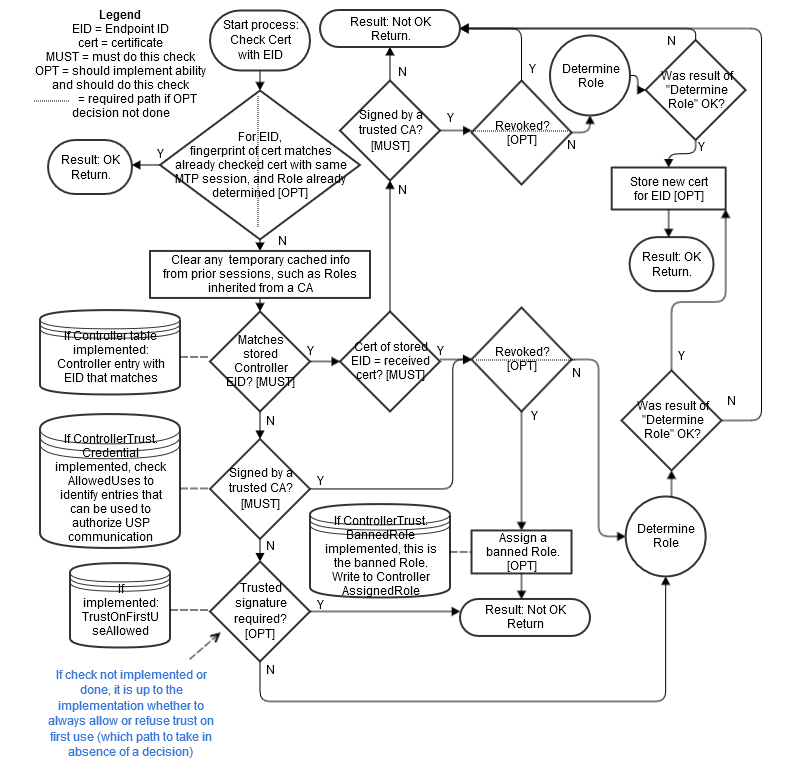
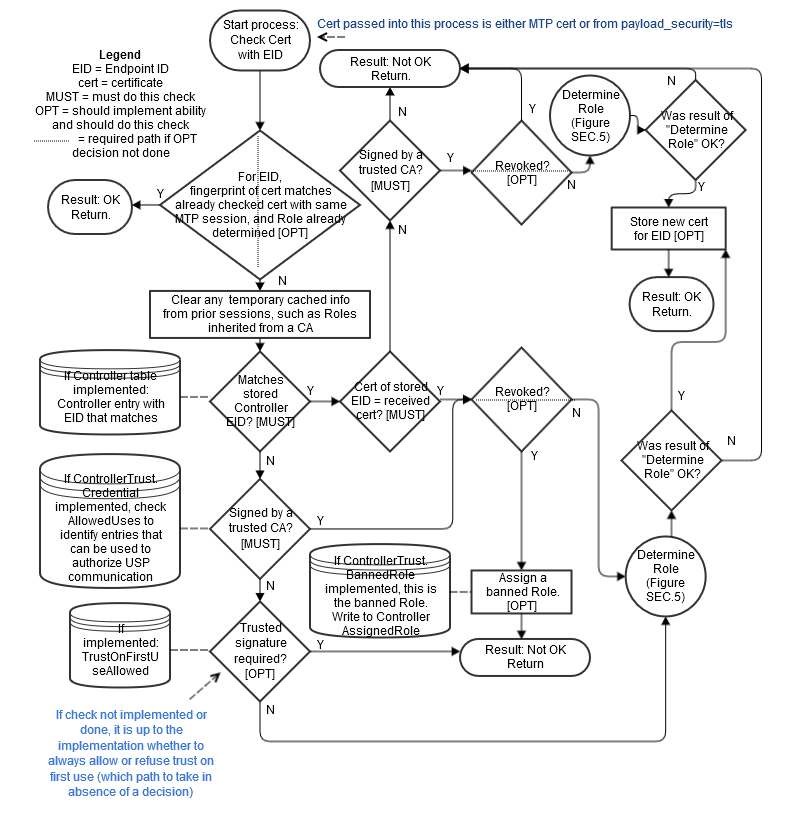
Resolve Blackford comments 1-7, part 8, 9-12, 14

Changed region(s): [[0.0306, 0.0, 0.9783, 0.9859], [0.7643, 0.4621, 0.9783, 0.7702], [0.3363, 0.8935, 0.8561, 0.9243]]

diff --git a/specification/security/index.md b/specification/security/index.md
@@ -42,6 +42,8 @@ It is expected that Agents will have some sort of Access Control List (ACL) that
 
 **R-SEC.1** - An Agent MUST confirm a Controller has the necessary permissions to perform the requested actions in a Message prior to performing that action.
 
+**R-SEC.1a** - Agents SHOULD implement the Controller object with the `AssignedRole` parameter (with at least read-only data model definition) and `InheritedRole` parameter (if allowed Roles can come from a trusted CA), so users can see what Controllers have access to the Agent and their permissions. This will help users identify rogue Controllers that may have gained access to the Agent.
+
 ## Trusted Certificate Authorities
 
 An Endpoint can have a configured list of trusted Certificate Authority (CA) certificates. The Agent policy may trust the CA to authorize authenticated Controllers to have a specific default Role, or the policy may only trust the CA to authenticate the Controller identity. The Controller policy may require an Agent certificate to be signed by a trusted CA before the Controller exchanges USP Messages with the Agent.
@@ -50,9 +52,9 @@ An Endpoint can have a configured list of trusted Certificate Authority (CA) cer
 
 This secure means can be accomplished through USP (see [Theory of Operations](./index.md#theory-of-operations)), or through a mechanism external to USP. The stored CA certificates can be root or intermediate CAs.
 
-**R-SEC.3** - Where a CA is trusted to authenticate Controller identity, the Agent MUST ensure the URN form of the Controller Endpoint ID is in the Controller certificate `subjectaltName` with a type `uniformResourceIdentifier` attribute, and this matches the USP Header `from_id`.
+**R-SEC.3** - Where a CA is trusted to authenticate Controller identity, the Agent MUST ensure the URN form of the Controller Endpoint ID is in the Controller certificate `subjectaltName` with a type `uniformResourceIdentifier` attribute, and this matches the USP Record `from_id`.
 
-**R-SEC.4** - Where a CA is trusted to authorize a Controller Role, the Agent MUST ensure the URN form of the Controller Endpoint ID (that matches the USP Header `from_id`) is in the Controller certificate `subjectaltName` with a type `uniformResourceIdentifier` attribute. 
+**R-SEC.4** - Where a CA is trusted to authorize a Controller Role, the Agent MUST ensure the URN form of the Controller Endpoint ID (that matches the USP Record `from_id`) is in the Controller certificate `subjectaltName` with a type `uniformResourceIdentifier` attribute. 
 
 Note that trusting a CA to authorize a Controller Role requires the Agent to maintain an association between a CA certificate and the Role(s) that CA is trusted to authorize. If the Agent allows CAs to authorize Roles, the Agent will need to identify specific CA certificates in a Controller’s chain of trust that can authorize Roles. The specific Role(s) associated with such a CA certificate can then be inherited by the Controller.
 
@@ -84,7 +86,11 @@ When authentication is done using X.509 certificates, it is up to Controller pol
 
 Note that allowing use of, method for transmitting, and procedure for handling shared secrets is specific to the MTP used, as described in [Message Transfer Protocols](../mtp/index.md). Shared secrets that are not unique per device are not recommended as they leave devices highly vulnerable to various attacks -- especially devices exposed to the Internet.
 
-**R-SEC.10** - An Agent certificate MUST contain the URN form of the Agent Endpoint ID in the `subjectaltName` with a type `uniformResourceIdentifier` attribute.
+**R-SEC.10** - An Agent certificate MUST contain the URN form of the Agent Endpoint ID in the `subjectaltName` with a type `uniformResourceIdentifier` attribute. 
+
+**R-SEC.10a** - The certificate `subjectaltName` value MUST be used to authenticate the USP Record `from_id` for any Records secured with an Agent certificate. 
+
+Agent certificates can be used to secure Records by encrypting at the MTP layer [Message Transfer Protocols](../mtp/index.md) enryption and/or encrypting at the USP layer [Secure Message Exchange](../e2e-message-exchange/index.md#).
 
 Some Controllers implementations may allow multiple Agents to share a single certificate with a wildcarded Endpoint ID.
 
@@ -112,7 +118,7 @@ It is possible for the Agent to allow an external entity to change a Controller 
 
 <a id='analysis-controller-certificates'/>
 
-An Agent will analyze Controller certificates to determine if they are valid, are appropriate for authentication of Controllers, and to determine what permissions (Role) a Controller has. The Agent will also determine whether MTP encryption is sufficient to provide end-to-end protection of the Record and Message, or if USP layer [Secure Message Exchange](../e2e-message-exchange/index.md#) *-- need tag to Secure Message Exchange header --* is required.
+An Agent will analyze Controller certificates to determine if they are valid, are appropriate for authentication of Controllers, and to determine what permissions (Role) a Controller has. The Agent will also determine whether MTP encryption is sufficient to provide end-to-end protection of the Record and Message, or if USP layer [Secure Message Exchange](../e2e-message-exchange/index.md#) is required.
 
 The diagrams in this section use the database symbol to identify where the described information can be represented in the data model, if an implementation chooses to expose this information through the USP protocol.
 
@@ -191,7 +197,7 @@ From component `ControllerTrust`:
 
 The Object `LocalAgent.Certificate.` can be used to manage Controller and CA certificates, along with the `LocalAgent.AddCertificate()` and `LocalAgent.Controller.{i}.AddMyCertificate()` commands.
 
-For brevity, `Device.LocalAgent` is not placed in front of all further object references in this Security section. However, all objects references are under `Device.LocalAgent`. This section does not describe use of parameters under other top level components (e.g., it does not describe parameters under `Device.RemoteAgent`).
+For brevity, `Device.LocalAgent` is not placed in front of all further object references in this Security section. However, all objects references are under `Device.LocalAgent`. This section does not describe use of parameters under other top level components.
 
 ### Roles (Access Control)
 
@@ -233,11 +239,9 @@ For example,
 
 When determining permissions for the `Device.LocalAgent.Controller.` table, the Agent will first determine that for Role A Permission.2 takes precedence over Permission.1 (55 > 3). For B, Permission.5 takes precedence over Permission.1 (78 > 20). The union of A and B is “r-xn” + “----” = “r-xn”.
 
-**R-SEC.26** - Agents SHOULD implement the Controller object with the `AssignedRole` parameter (with at least read-only data model definition) and `InheritedRole` parameter (if allowed Roles can come from a trusted CA), so users can see what Controllers have access to the Agent and their permissions. This will help users identify rogue Controllers that may have gained access to the Agent.
-
 #### Role Associated with a Credential or Challenge
 
-The `ControllerTrust.Credential.{i}.AssignedRole` parameter value is inherited by Controllers whose credentials have been validated using the credentials in the same entry of the `ControllerTrust.Credential.{i}.` table. Whenever `ControllerTrust.Credential.{i}.` is used to validate a certificate, the Agent writes the current value of the associated `ControllerTrust.Credential.{i}.Role` into the `Controller.{i}.InheritedRole` parameter.  For more information on use of this table for assigning Controller Roles and validating credentials, see the sections below.
+The `ControllerTrust.Credential.{i}.Role` parameter value is inherited by Controllers whose credentials have been validated using the credentials in the same entry of the `ControllerTrust.Credential.{i}.` table. Whenever `ControllerTrust.Credential.{i}.` is used to validate a certificate, the Agent writes the current value of the associated `ControllerTrust.Credential.{i}.Role` into the `Controller.{i}.InheritedRole` parameter.  For more information on use of this table for assigning Controller Roles and validating credentials, see the sections below.
 
 The `ControllerTrust.Challenge.{i}.Role` parameter is a Role that is assigned to Controllers that send a successful `ChallengeResponse()` command. For more information on use of challenges for assigning Controller Roles, see the sections below.
 
@@ -273,7 +277,7 @@ Note that it is possible for an Agent to maintain policy of the type described b
 
 An Agent can implement the ability to provide Controllers with challenges via USP, in order to be trusted with certain Roles. It is also possible to use non-USP methods to issue challenges, such as HTTP digest authentication with prompts for login and password.
 
-To use the USP mechanism, the `RequestChallenge()` and `ChallengeResponse()` commands and `ControllerTrust.Challenge.{i}.` object with at least the `Alias` and `Description` parameters must be implemented. The functionality implied by the other `ControllerTrust.Challenge.{i}.` parameters needs to be implemented, but does not have to be exposed through the data model.
+To use the USP mechanism, the `RequestChallenge()` and `ChallengeResponse()` commands and `ControllerTrust.Challenge.{i}.` object with at least the `Alias` and `Description` parameters needs to be implemented. The functionality implied by the other `ControllerTrust.Challenge.{i}.` parameters needs to be implemented, but does not have to be exposed through the data model.
 
 A Controller that sends a Get message on `Device.ControllerTrust.Challenge.{i}.` will receive all entries and parameters that are allowed for its current assigned Role. In the simplest case, this will be a single entry and only Alias and Description will be supplied for that entry. It is important to restrict visibility to all other implemented parameters to highly trusted Roles, if at all.
 
